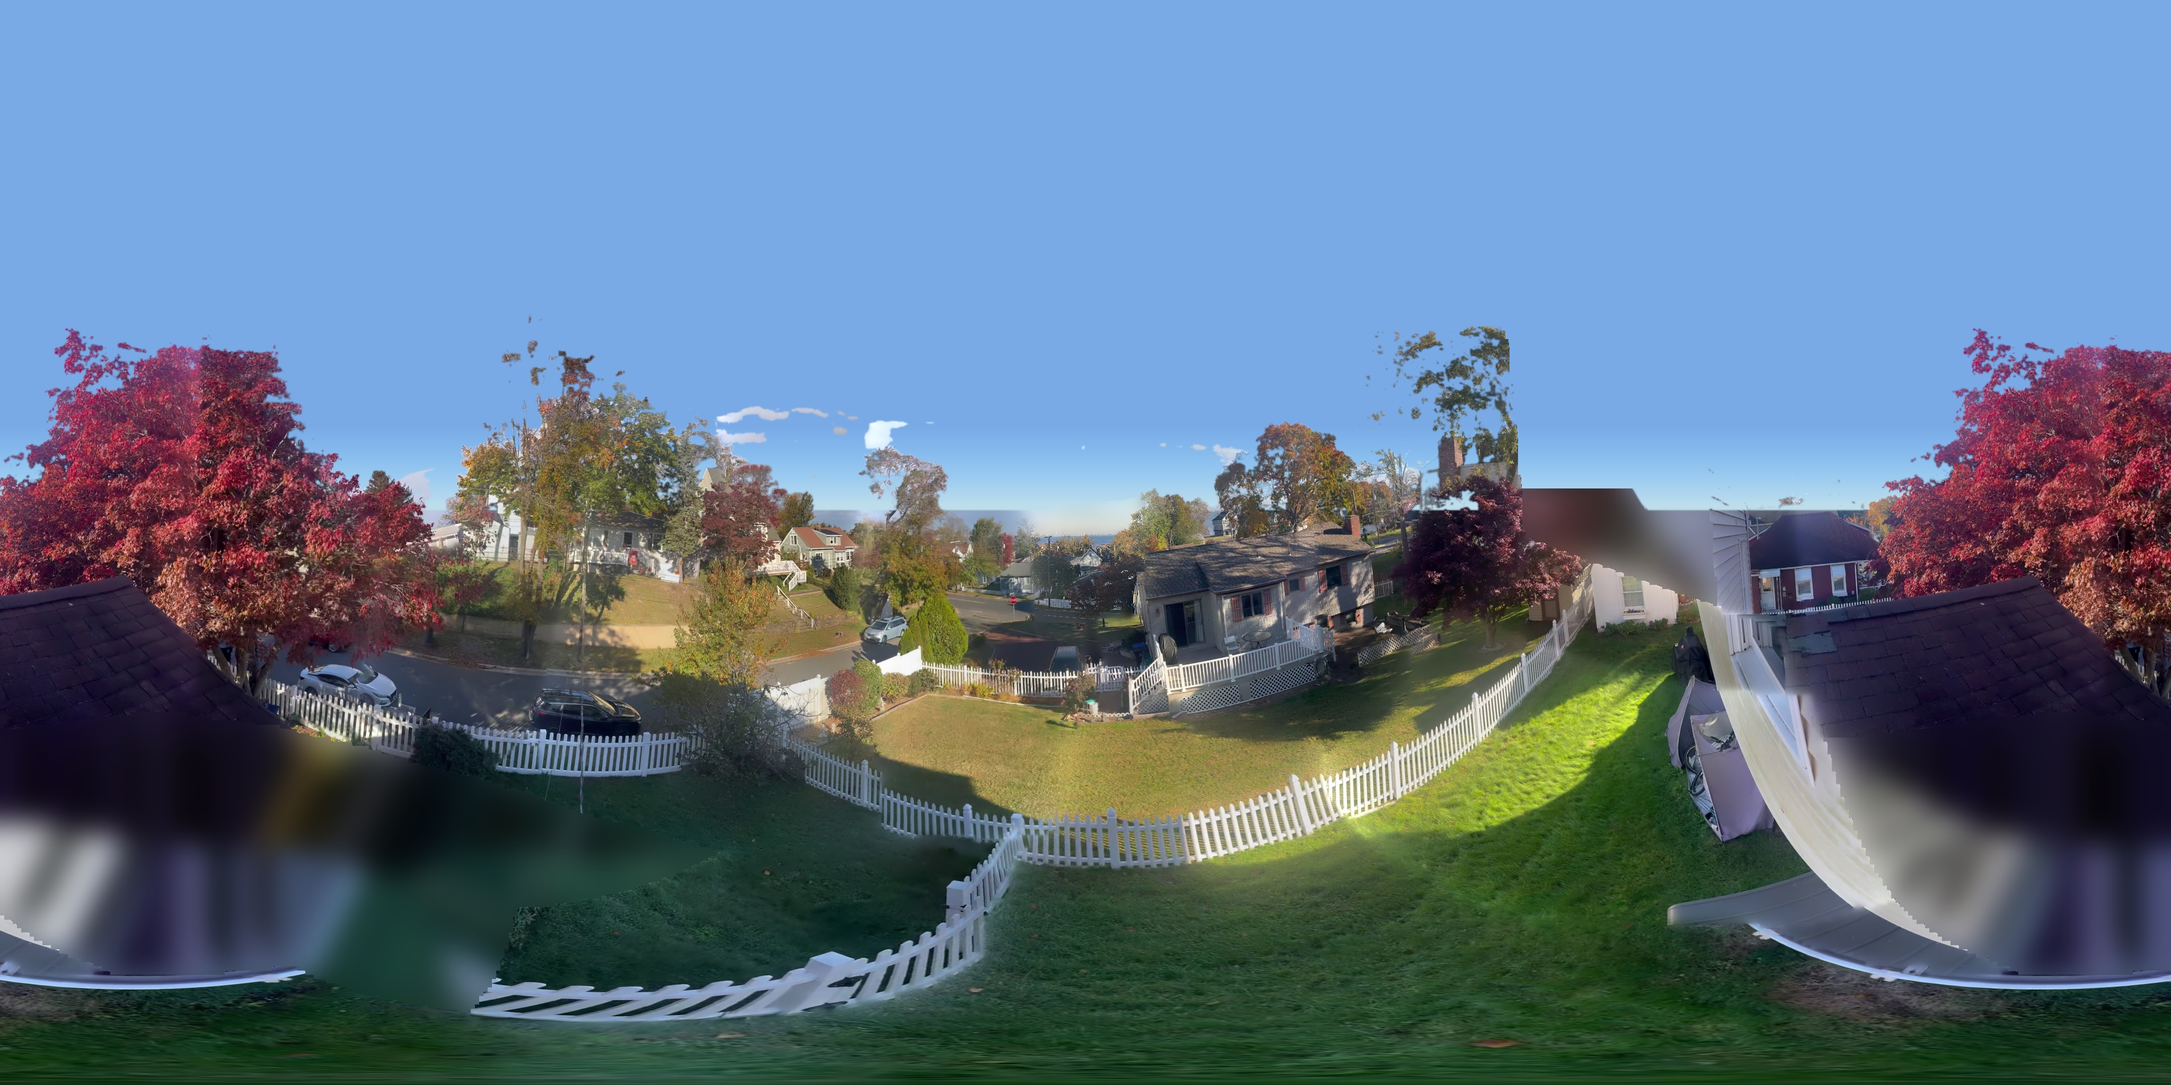
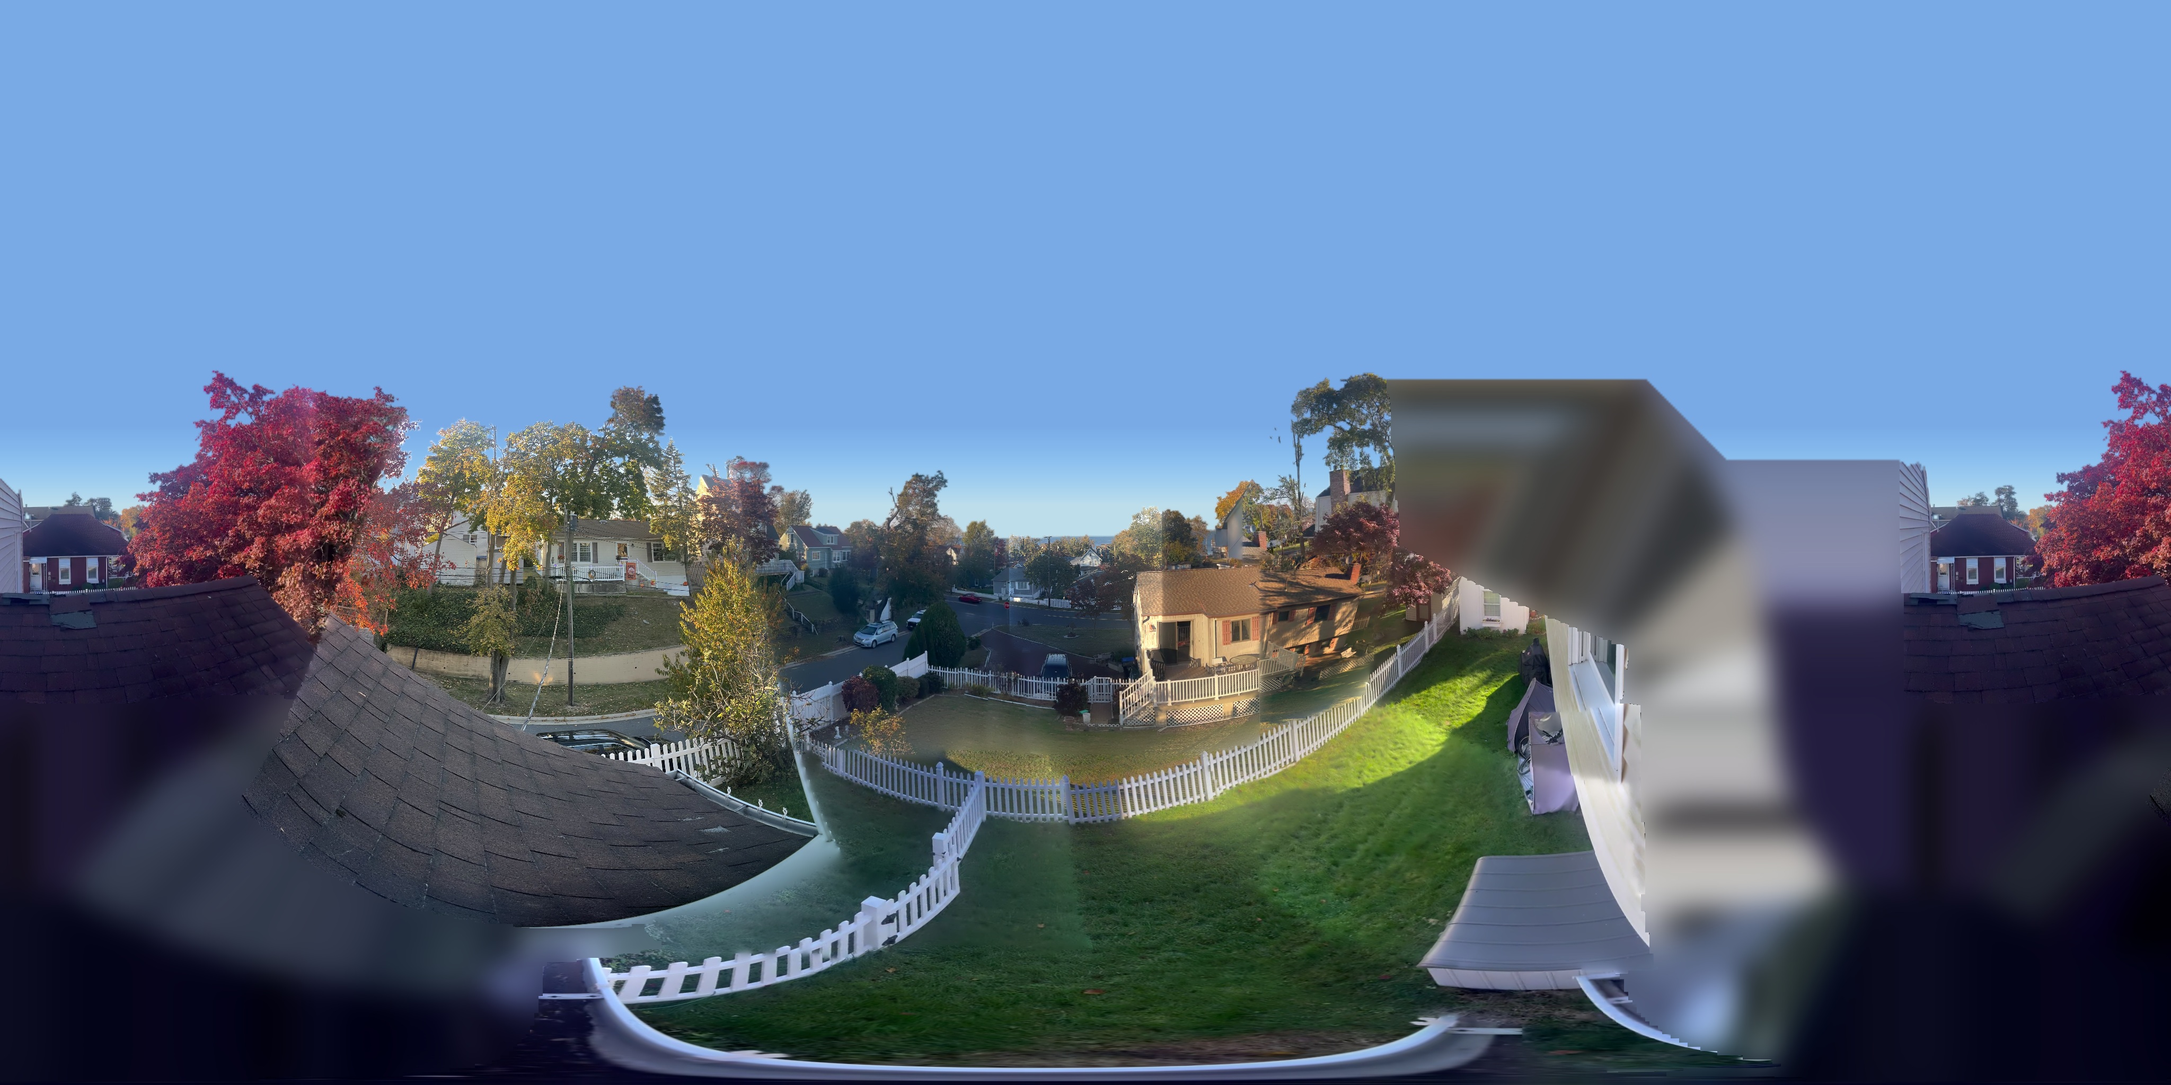
Restore roof coverage and correct exterior calibration and object seams

diff --git a/exterior.js b/exterior.js
@@ -3,7 +3,7 @@ import * as THREE from './vendor/three.module.js';
 // One pre-stitched environment; no overlapping cards or clamped projections.
 export async function createPhotoExterior(scene,{night=false}={}){
   const group=new THREE.Group();group.name=night?'night-exterior':'exterior';group.visible=!night;scene.add(group);
-  const texture=await new THREE.TextureLoader().loadAsync(`./Images/Exterior/panorama-${night?'night':'day'}.jpg?v=20261103-stitched`);
+  const texture=await new THREE.TextureLoader().loadAsync(`./Images/Exterior/panorama-${night?'night':'day'}.jpg?v=20261103-anchored`);
   texture.colorSpace=THREE.SRGBColorSpace;texture.anisotropy=8;
   const radius=24,origin=new THREE.Vector3(62*.0254,60*.0254,75*.0254);
   const geometry=new THREE.PlaneGeometry(1,1,192,96),p=geometry.attributes.position,uv=geometry.attributes.uv;

diff --git a/room.js b/room.js
@@ -5,7 +5,7 @@ import { createWindowReflections } from './glass.js?v=20261103-quality';
 import { createPhotoMaterials, createPhotoFloor } from './photo-materials.js?v=20261103-quality';
 import { createAntiqueFurniture } from './antique-furniture.js';
 import { miteredRail, miteredFrameBand } from './joinery.js';
-import { createPhotoExterior } from './exterior.js?v=20261103-stitched';
+import { createPhotoExterior } from './exterior.js?v=20261103-anchored';
 import { installRefinedSoftgoods, installBakedLighting } from './quality.js?v=20261103-coverage';
 
 // Sketch coordinates: X runs left to right, Z runs top to bottom. Dimensions in inches.

diff --git a/index.html b/index.html
@@ -13,6 +13,6 @@
   <button id="plan-toggle" type="button" aria-controls="floor-plan" aria-expanded="false" aria-pressed="false">▱ Floor plan</button>
   <div id="floor-plan" hidden><canvas id="plan-canvas" width="338" height="374" role="img" aria-label="Bedroom floor plan with your current position and viewing direction"></canvas></div>
   <div id="loading"><span class="spinner"></span><p>Building your room…</p></div>
-  <script type="module" src="room.js?v=20261103-stitched"></script>
+  <script type="module" src="room.js?v=20261103-anchored"></script>
 </body>
 </html>

diff --git a/tools/stitch-exterior.py b/tools/stitch-exterior.py
@@ -22,7 +22,7 @@ def calibrate(old):
         video.set(1,frame);ok,im=video.read()
         if not ok:continue
         path=CACHE/f'frame-{i:02}.jpg';cv2.imwrite(str(path),im)
-        new.append(dict(image=str(path),width=720,height=1280,ppx=360,ppy=640,focal=879.0))
+        new.append(dict(image=str(path),width=720,height=1280,ppx=360,ppy=640,focal=1095.0))
     video.release();allc=old+new;features=[];sift=cv2.SIFT_create(nfeatures=3000)
     for c in allc:
         im=cv2.imread(str(BASE/c['image']) if not Path(c['image']).is_absolute() else c['image']);scale=720/im.shape[0]
@@ -34,6 +34,18 @@ def calibrate(old):
             pair=bf.knnMatch(features[i][1],features[j][1],k=2);good=[p for p,q in pair if p.distance<.68*q.distance]
             if len(good)<25:continue
             pa=features[i][0][[p.queryIdx for p in good]];pb=features[j][0][[p.trainIdx for p in good]]
+            if j<nold:
+                H,mask=cv2.findHomography(pa,pb,cv2.RANSAC,5)
+                if mask is None or mask.sum()<25:continue
+                def K(c):return np.array([[c['focal'],0,c['ppx']],[0,c['focal'],c['ppy']],[0,0,1.]])
+                A=np.linalg.inv(K(allc[j]))@H@K(allc[i]);u,sv,v=np.linalg.svd(A)
+                if sv[-1]<1e-8 or sv[0]/sv[-1]>1.5:continue
+                R=u@v
+                if np.linalg.det(R)<0:R=-R
+                # Earlier cameras have different intrinsics and parallax.
+                # They anchor global placement, while the new sweep's own
+                # measured lens and relative rotations determine its geometry.
+                edges.append((i,j,R,float(mask.sum())*.1));continue
             a,b=rays(pa,allc[i]),rays(pb,allc[j]);best=np.zeros(len(a),bool)
             for _ in range(180):
                 ix=rng.choice(len(a),3,replace=False);R=fit(a[ix],b[ix]);mask=np.sum((a@R.T)*b,axis=1)>np.cos(np.deg2rad(.8))
@@ -42,22 +54,26 @@ def calibrate(old):
             R=fit(a[best],b[best]);err=np.rad2deg(np.arccos(np.clip(np.sum((a@R.T)*b,axis=1),-1,1)));mask=err<.8
             R=fit(a[mask],b[mask]);weight=float(mask.sum());edges.append((i,j,R,weight))
         print('REGISTER',i-nold,'edges',len(edges),flush=True)
-    poses={i:np.array(c['rotation']) for i,c in enumerate(old)}
-    for _ in range(len(new)):
-        choices={}
-        for i,j,R,w in edges:
-            if j in poses and i not in poses:choices.setdefault(i,[]).append((w,poses[j]@R))
-            if i in poses and j not in poses:choices.setdefault(j,[]).append((w,poses[i]@R.T))
+    anchors=[e for e in edges if e[1]<nold]
+    relative=[e for e in edges if e[1]>=nold]
+    seed=max(anchors,key=lambda e:e[3]);seed_id=seed[0]
+    poses={seed_id:np.array(old[seed[1]]['rotation'])@seed[2]}
+    # Build one coherent sweep before anchoring it. Independently seeding each
+    # frame from a noisy old/new match can put rotation averaging in a flipped
+    # local minimum. Only reliable within-sweep ray matches set its shape.
+    while True:
+        choices=[]
+        for i,j,R,w in relative:
+            if j in poses and i not in poses:choices.append((w,i,poses[j]@R))
+            if i in poses and j not in poses:choices.append((w,j,poses[i]@R.T))
         if not choices:break
-        for i,options in choices.items():poses[i]=max(options,key=lambda x:x[0])[1]
-    # Robust rotation averaging with fixed original anchors. Reject inconsistent
-    # graph edges rather than letting an isolated bad homography flip a frame.
-    for _ in range(80):
+        w,i,R=max(choices,key=lambda e:e[0]);poses[i]=R
+    for _ in range(100):
         updates={}
-        for i in range(nold,len(allc)):
-            if i not in poses:continue
+        for i in poses:
+            if i==seed_id:continue
             candidates=[]
-            for a,b,R,w in edges:
+            for a,b,R,w in relative:
                 if a==i and b in poses:candidates.append((poses[b]@R,w))
                 elif b==i and a in poses:candidates.append((poses[a]@R.T,w))
             matrix=np.zeros((3,3))
@@ -65,11 +81,36 @@ def calibrate(old):
                 angle=np.arccos(np.clip((np.trace(poses[i].T@target)-1)/2,-1,1));matrix+=target*w*min(1,.025/max(angle,1e-6))
             u,_,v=np.linalg.svd(matrix);updates[i]=u@v
         poses.update(updates)
+    global_candidates=[(np.array(old[j]['rotation'])@R@poses[i].T,w) for i,j,R,w in anchors if i in poses]
+    def angle(A,B):return np.arccos(np.clip((np.trace(A.T@B)-1)/2,-1,1))
+    center=min(global_candidates,key=lambda a:sum(min(angle(a[0],b[0]),.25)*b[1] for b in global_candidates))[0]
+    matrix=sum(R*w for R,w in global_candidates if angle(center,R)<.15)
+    u,_,v=np.linalg.svd(matrix);global_rotation=u@v
+    poses={i:global_rotation@R for i,R in poses.items()}
     result=[]
     for i,c in enumerate(new,nold):
         if i not in poses:continue
         c['rotation']=poses[i].tolist();result.append(c)
-    (CACHE/'registered.json').write_text(json.dumps(result));return result
+    (CACHE/'registered-f1095-checked.json').write_text(json.dumps(result));return result
+
+def replace_sky(image,profile):
+    # Segment connected sky rather than thresholding every blue/white pixel.
+    # Color-only correction erased pale branches and the tops of white houses.
+    h,w=image.shape[:2];small=cv2.resize(image,(1024,512));color=small.astype(np.float32);y=np.arange(512)[:,None]/512
+    b,g,r=color[:,:,0],color[:,:,1],color[:,:,2]
+    mask=np.full((512,1024),cv2.GC_PR_BGD,np.uint8)
+    vegetation=(r>b*1.08)|(g>b*1.08)|((b<110)&(b-g<15)&(b-r<15))
+    mask[vegetation]=cv2.GC_PR_FGD
+    mask[(b-r>60)&(b-g>30)&(y<.49)]=cv2.GC_BGD
+    mask[(np.minimum.reduce([b,g,r])>235)&(y<.47)]=cv2.GC_BGD
+    mask[np.broadcast_to(y<.31,mask.shape)]=cv2.GC_BGD
+    mask[np.broadcast_to(y>.515,mask.shape)]=cv2.GC_FGD
+    bg=np.zeros((1,65),np.float64);fg=np.zeros((1,65),np.float64);cv2.grabCut(small,mask,None,bg,fg,5,cv2.GC_INIT_WITH_MASK)
+    sky=((mask==cv2.GC_BGD)|(mask==cv2.GC_PR_BGD)).astype(np.float32)
+    alpha=cv2.GaussianBlur(cv2.resize(sky,(w,h)),(0,0),.6)
+    result=np.clip(image*(1-alpha[:,:,None])+profile[:,None,:]*alpha[:,:,None],0,255).astype(np.uint8)
+    cv2.imwrite(str(CACHE/'sky-mask.png'),(alpha*255).astype(np.uint8))
+    return result
 
 def panorama(cameras,night=False):
     width,height=4096,2048
@@ -85,23 +126,35 @@ def panorama(cameras,night=False):
     def warp(c):
         r=np.array(c['rotation'],np.float32);local=directions@r;z=local[:,:,2];safe=np.maximum(z,.001)
         u=local[:,:,0]/safe*c['focal']+c['ppx'];v=local[:,:,1]/safe*c['focal']+c['ppy']
+        if 'planeToReference' in c:
+            refu,refv=u.copy(),v.copy();H=np.linalg.inv(np.array(c['planeToReference'],np.float32))
+            den=H[2,0]*refu+H[2,1]*refv+H[2,2]
+            u=(H[0,0]*refu+H[0,1]*refv+H[0,2])/np.maximum(den,.001);v=(H[1,0]*refu+H[1,1]*refv+H[1,2])/np.maximum(den,.001)
         edge=np.minimum(u/c['width'],1-u/c['width']);edge=np.minimum(edge,v/c['height']);edge=np.minimum(edge,1-v/c['height'])
         if c['image']=='front.jpg':edge=np.minimum(edge,(.82-v/c['height']))
+        if c['image']=='view-08.jpg' and not night:
+            edge[(u>570)&(v>600-(u-600)*1.4)&(v<705)]=0
         score=np.maximum(edge,0)*np.maximum(z,0)**2
+        if 'planeToReference' in c:score*=(refu>705)&(refv>680)&(refv<1200)&(theta>0)&(theta<1.4)
         if c['image'] in ['front.jpg','water.jpg']:score*=3
         if Path(c['image']).is_absolute():score*=.8
         return u.astype(np.float32),v.astype(np.float32),score
     # Find seams through agreeing image regions, rather than switching at an
     # arbitrary camera-center boundary (which can cut branches in half).
     thumbnails=[];masks=[];corners=[];seam_indices=[];sw,sh=width//8,height//8;core=np.full((sh,sw),-1,np.int16)
+    original_coverage=np.zeros((sh,sw),bool);primary_coverage=np.zeros((sh,sw),bool)
     for i,c in enumerate(cameras):
         u,v,score=warp(c)
+        if c.get('primary'):primary_coverage|=cv2.resize(score,(sw,sh))>.01
+        if not Path(c['image']).is_absolute():original_coverage|=cv2.resize(score,(sw,sh))>.015
         if c['image'] in ['front.jpg','water.jpg']:
-            core[cv2.resize(score,(sw,sh))>.44]=i
+            core[cv2.resize(score,(sw,sh))>.025]=i
     for i,c in enumerate(cameras):
         u,v,score=warp(c);path=Path(c['image']) if Path(c['image']).is_absolute() else BASE/('Night' if night else '')/c['image']
         im=cv2.imread(str(path));color=cv2.remap(im,cv2.resize(u,(sw,sh)),cv2.resize(v,(sw,sh)),cv2.INTER_LINEAR)
         mask=(cv2.resize(score,(sw,sh))>.002)&((core<0)|(core==i))
+        if not c.get('primary'):mask&=~primary_coverage
+        if Path(c['image']).is_absolute() and not c.get('primary'):mask&=~original_coverage
         my,mx=np.where(mask)
         if not len(mx):continue
         x0,x1,y0,y1=mx.min(),mx.max()+1,my.min(),my.max()+1
@@ -122,6 +175,7 @@ def panorama(cameras,night=False):
         u,v,score=warp(c);mask[score<=0]=0
         path=Path(c['image']) if Path(c['image']).is_absolute() else BASE/('Night' if night else '')/c['image']
         im=cv2.imread(str(path));color=cv2.remap(im,u,v,cv2.INTER_LINEAR,borderMode=cv2.BORDER_CONSTANT)
+        if 'colorGain' in c:color=np.clip(color.astype(np.float32)*np.array(c['colorGain'],np.float32),0,255).astype(np.uint8)
         blender.feed(color.astype(np.int16),mask,(0,0))
     result,resultmask=blender.blend(None,None);valid=resultmask>0;image=np.clip(result,0,255).astype(np.uint8)
     # Unknown directions get a soft continuation of nearby photographic colors,
@@ -138,25 +192,39 @@ def panorama(cameras,night=False):
         rows=np.where(sky.sum(axis=1)>20)[0];samples=np.array([np.median(reference[y][sky[y]],axis=0) for y in rows])
         if len(rows)>10:
             profile=np.stack([np.polyval(np.polyfit(rows/height,samples[:,channel],2),np.clip(np.arange(height)/height,rows.min()/height,rows.max()/height)) for channel in range(3)],axis=1)
-            blue=(image[:,:,0]>image[:,:,2]*1.16)&(image[:,:,0]>image[:,:,1]*1.055)&(yy<height*.47)
-            alpha=cv2.GaussianBlur(blue.astype(np.float32),(0,0),1.2);alpha[~valid&(yy<height*.45)]=1
-            image=np.clip(image*(1-alpha[:,:,None])+profile[:,None,:]*alpha[:,:,None],0,255).astype(np.uint8)
+            cv2.imwrite(str(CACHE/'stitched-raw-day.jpg'),image,[cv2.IMWRITE_JPEG_QUALITY,97])
+            (CACHE/'sky-profile.json').write_text(json.dumps(profile.tolist()))
+            image=replace_sky(image,profile)
     name='panorama-night.jpg' if night else 'panorama-day.jpg';cv2.imwrite(str(BASE/name),image,[cv2.IMWRITE_JPEG_QUALITY,94])
     cv2.imwrite(str(CACHE/('night-coverage.png' if night else 'day-coverage.png')),valid.astype(np.uint8)*255)
     print('PANORAMA',name,'captured',round(valid.mean()*100,1),'percent',flush=True)
 
 old=json.loads((BASE/'cameras.json').read_text())
 if __name__=='__main__':
-    registered=CACHE/'registered.json';new=json.loads(registered.read_text()) if registered.exists() else calibrate(old)
+    registered=CACHE/'registered-f1095-checked.json';new=json.loads(registered.read_text()) if registered.exists() else calibrate(old)
     # Keep angularly distinct captures; redundant frames increase seam cost
     # without adding coverage. Registration still uses the entire sequence.
     selected=[];remaining=list(new);directions=[np.array(c['rotation'])[:,2] for c in old]
     while remaining and len(selected)<32:
         c=max(remaining,key=lambda c:min(1-float(np.dot(np.array(c['rotation'])[:,2],d)) for d in directions));remaining.remove(c);selected.append(c);directions.append(np.array(c['rotation'])[:,2])
-    # Use a single daytime sweep for nearby trees/roofs. The earlier front
-    # photo was taken from a different camera position, so blending its canopy
-    # with the new sweep creates double branches even with correct rotations.
-    # Its pose still anchors registration; the distant water still can safely
-    # supply higher resolution without that near-field parallax.
-    panorama([next(c for c in old if c['image']=='water.jpg')]+selected)
+    # Keep original captured regions fixed, including the close porch roof.
+    # Added footage extends those regions instead of replacing their objects.
+    # Extend the brown facade in its original reference view. One facade-plane
+    # transform keeps the windows, eaves and deck straight instead of joining
+    # independently rotated frames through the middle of the building.
+    finder=cv2.SIFT_create(nfeatures=5000);matcher=cv2.BFMatcher();features=[]
+    for frame in [20,22]:
+        image=cv2.imread(str(CACHE/f'frame-{frame:02}.jpg'),0);key,desc=finder.detectAndCompute(cv2.createCLAHE(2,(8,8)).apply(image),None);features.append((np.array([k.pt for k in key]),desc))
+    pairs=matcher.knnMatch(features[1][1],features[0][1],k=2);good=[p for p,q in pairs if p.distance<.72*q.distance]
+    a=features[1][0][[p.queryIdx for p in good]];b=features[0][0][[p.trainIdx for p in good]];keep=(a[:,1]>350)&(a[:,1]<850)&(b[:,1]<550)
+    relative,mask=cv2.findHomography(a[keep],b[keep],cv2.RANSAC,2.5)
+    src=np.array([[453,160],[526,158],[525,235],[454,235]],np.float32);dst=np.array([[594,850],[670,850],[670,905],[594,905]],np.float32)
+    affine=np.linalg.lstsq(np.column_stack((src,np.ones(4))),dst,rcond=None)[0].T;reference=np.eye(3);reference[:2]=affine
+    sy,sx=np.mgrid[735:795,580:700];points=cv2.perspectiveTransform(np.stack((sx,sy),axis=-1).astype(np.float32).reshape(1,-1,2),np.linalg.inv(reference))[0]
+    source=cv2.imread(str(CACHE/'frame-20.jpg'));sample=cv2.remap(source,points[:,0].reshape(sx.shape),points[:,1].reshape(sx.shape),cv2.INTER_LINEAR)
+    original=cv2.imread(str(BASE/'view-08.jpg'))[735:795,580:700];gain=np.clip(np.median(original,axis=(0,1))/np.maximum(np.median(sample,axis=(0,1)),1),.5,2)
+    planes=[]
+    for frame,H in [(20,reference),(22,reference@relative)]:
+        c=dict(old[8]);c.update(image=str(CACHE/f'frame-{frame:02}.jpg'),width=720,height=1280,primary=True,planeToReference=H.tolist(),colorGain=gain.tolist());planes.append(c)
+    panorama(old+selected+planes)
     panorama(json.loads((BASE/'Night/cameras.json').read_text()),True)

diff --git a/Images/Exterior/README.md b/Images/Exterior/README.md
@@ -10,18 +10,30 @@ rotation estimated from SIFT feature matches and refined with OpenCV's
 rotation bundle adjustment. Intrinsics are in each source image's pixels.
 
 `tools/stitch-exterior.py` builds `panorama-day.jpg` and `panorama-night.jpg`.
-The day image uses the distant water still and the new continuous sweep from
-IMG_7590.MOV (63 sampled frames for registration). Unit-ray feature matching,
-RANSAC and joint rotation averaging
-register the new footage against fixed original house/water camera anchors.
-The 32 most distinct new viewing directions provide the final coverage.
-Earlier front-facing photos anchor camera directions but are not overlaid on
-the new nearby trees: their different capture position causes parallax seams.
+The original photos/video retain their captured regions, including the porch
+roof in `front.jpg`. Added footage from IMG_7590.MOV extends their coverage
+instead of replacing objects already visible in those photographs. The new
+video uses a separately measured 1095px focal length, rather than the earlier
+video's approximately 879px value. Estimates from 63 within-video homographies
+had a median of 1095px (middle half 1058–1128px).
+
+Unit-ray RANSAC matches first build one coherent new sweep. Original cameras
+then anchor its global orientation; near-singular homographies are rejected.
+The 32 most distinct new directions provide additional coverage. The brown
+house extension uses facade-plane alignment to its original window landmarks
+and a shared exposure correction. This confines the extension to the building;
+foreground fencing retains the camera projection rather than the facade plane.
 Source pixels are inverse-warped into one equirectangular image; projections
 behind cameras or outside their photographs are rejected. Graph-cut seams
 prefer agreeing image regions and protect the house/water centers. Multiband blending
 smooths exposure transitions. Clear-blue sky uses a common elevation profile
-sampled from the original water photo to remove phone exposure changes.
+sampled from the original water photo to remove phone exposure changes. Sky
+correction uses a connected sky/foreground mask so pale branches and white
+facades remain intact; it has no hard elevation cutoff across the window view.
+
+`tools/verify-quality.cjs` captures dedicated porch-roof, street-car, brown-house
+and near-fence views in both modes. Inspect those images in `previews/` when
+changing the stitch; geometric coverage tests alone cannot detect cut objects.
 
 `exterior.js` displays one spherical mesh per mode at a 24-meter radius. The
 water photograph faces the paired north windows; the front photograph faces

diff --git a/README.md b/README.md
@@ -3,8 +3,8 @@
 [Open the latest design online](https://darkmattergravity.github.io/master-bedroom-redesign/?design=4).
 The hosted viewer runs directly in a browser; no installation is needed.
 Daytime windows show one stitched panorama of the actual neighborhood and
-water view, using the new continuous daytime sweep and the sharper water photo.
-Original house/water camera directions anchor the wider coverage. Night mode uses its
+water view, retaining the original roof/house/water views and extending their
+coverage with the new daytime sweep. Night mode uses its
 own stitched panorama from the actual nighttime sweep. Both textures wrap
 around the room with the front-window plantation shutters open.
 The upper window shows blue sky and treetops by day and the matching dark
